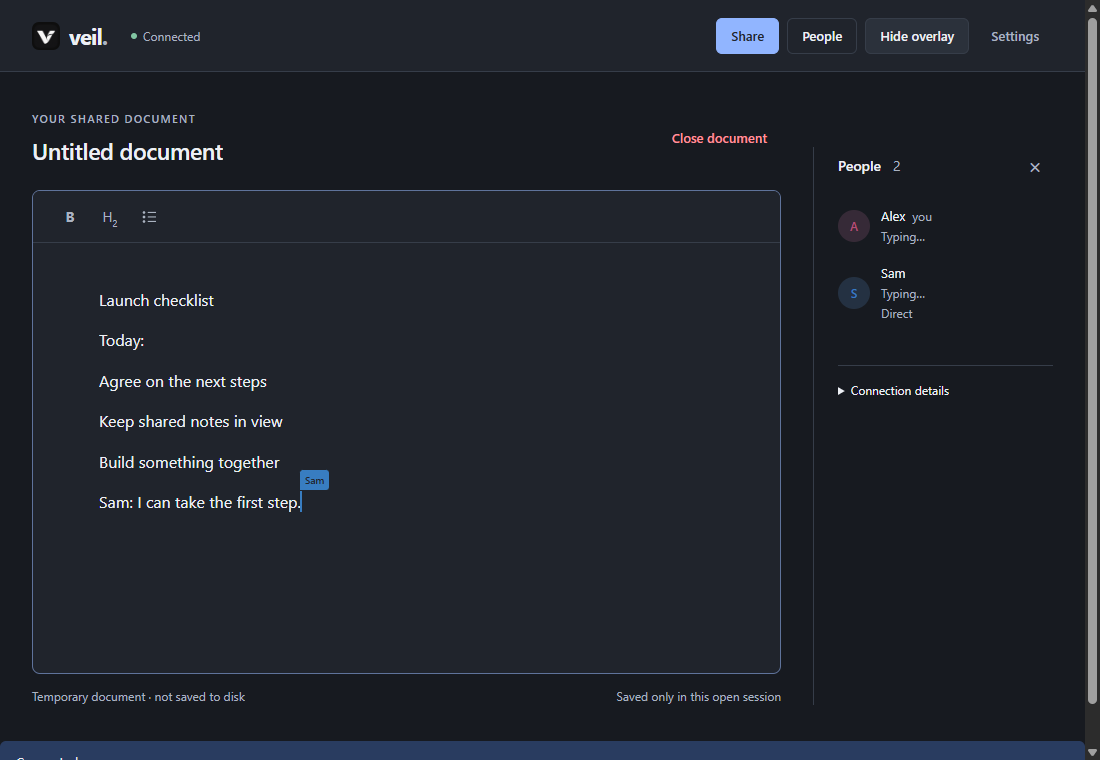
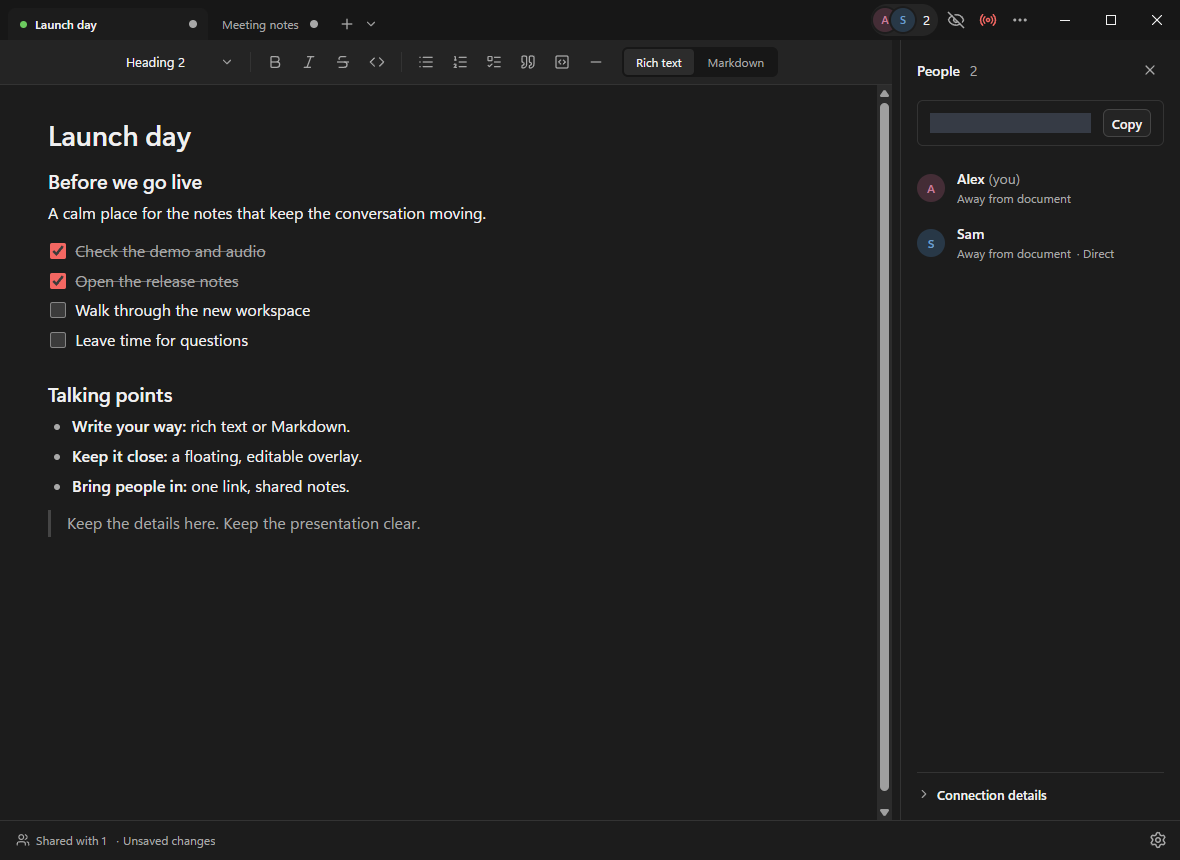
docs: simplify README and refresh app media

diff --git a/README.md b/README.md
@@ -6,127 +6,43 @@
 
 **Your notes. Your collaborators. Your overlay.**
 
-A Windows workspace for Markdown notes, live collaboration, and an overlay that stays visible to you while compatible recordings capture what's underneath.
+Collaborative Markdown notes for Windows, with an overlay that stays visible to you while compatible recordings capture what's underneath.
 
-[**Download for Windows**](https://github.com/ahmad-fatayerji/veil/releases/latest) · [Get started](#get-started) · [Share a document](#share-a-document) · [Report an issue](https://github.com/ahmad-fatayerji/veil/issues)
+[**Download for Windows**](https://github.com/ahmad-fatayerji/veil/releases/latest) · [Report an issue](https://github.com/ahmad-fatayerji/veil/issues) · [Self-hosting](https://github.com/ahmad-fatayerji/veil-server)
 
 [![Latest release](https://img.shields.io/github/v/release/ahmad-fatayerji/veil)](https://github.com/ahmad-fatayerji/veil/releases/latest) [![MIT license](https://img.shields.io/github/license/ahmad-fatayerji/veil)](LICENSE) [![Windows 10 / 11](https://img.shields.io/badge/Windows-10%20%2F%2011-0078D4)](https://github.com/ahmad-fatayerji/veil/releases/latest)
 
+<img src="docs/media/workspace.png" alt="Veil's tabbed workspace with a shared checklist and two collaborators" width="1000" />
+
 </div>
 
-Keep talking points beside a presentation, work through a checklist during a call, or write with someone in real time. Start with a local document, open your own Markdown files, and share a tab when you need another pair of hands. No account is required.
+## Features
 
-> This README describes the current `develop` source. Features may reach the Windows installer in a later release; check the [release notes](https://github.com/ahmad-fatayerji/veil/releases) for your installed version.
+- **A floating, editable overlay.** Keep notes on top, move and resize them, or let clicks pass through. Adjust font size, background opacity, and text opacity independently.
+- **Capture exclusion.** Keep the overlay out of compatible recordings and screen sharing. Results depend on the capture method; the main window remains capturable. [Compatibility details](docs/capture-compatibility.md).
+- **Rich text and Markdown.** Switch views while editing the same document, with headings, checklists, lists, quotes, and code.
+- **Live collaboration.** Share a reusable link, see cursors and participant activity, and optionally approve new guests. Connections are encrypted.
+- **Multiple documents.** Work in tabs with independent sharing sessions. Background sessions stay connected; the overlay follows your selected tab.
+- **Local files and recovery.** Open and save Markdown files, keep private local copies, and optionally restore tabs and unsaved drafts. No account required.
+- **Public or self-hosted sharing.** Use Veil's public servers for small sessions, or your own compatible server for more control.
+- **Your desktop, your preferences.** Light and dark themes, custom accent colors, tray mode, optional Windows startup, Discord activity controls, and signed app updates.
 
-## A workspace for your notes
+### Write together
 
-- **Multiple documents, independent sessions.** Create, open, and switch between tabs. Each document can have its own shared session, and background tabs stay connected. The overlay follows your selected tab.
-- **Rich text or Markdown.** Switch between formatted editing and Markdown source. Both views edit the same live document, including headings, emphasis, lists, nested checklists, quotes, code, and dividers. Your view choice stays local.
-- **Files you control.** Open and save UTF-8 `.md` files with native Windows dialogs. Each participant can save a private local copy. Veil is available through **Open with** without replacing your default Markdown editor.
-- **Live collaboration.** See named cursors, selections, and participant activity. Invite people with a short reusable link and choose automatic joining or approval for new guests.
-- **An editable desktop overlay.** Move, resize, keep it on top, or let clicks pass through to the app underneath. Adjust font size, background opacity, and text opacity independently, or link the opacity sliders. Choose a compact formatting toolbar, a selection toolbar, or shortcuts only.
-- **A setup that fits your desktop.** Choose light, dark, or system theme; follow your Windows accent color or pick your own. Rebind shortcuts, keep Veil in the tray, and optionally start it with Windows.
+Sam adds a note, Alex checks a shared task and replies, and both see the changes live.
 
-## Get started
+![Two participants editing the same document in Veil](docs/media/write-together.gif)
 
-1. [Download the latest Windows installer](https://github.com/ahmad-fatayerji/veil/releases/latest) and run the setup `.exe`. Veil supports **Windows 10 and 11, x64**; setup installs WebView2 if needed.
-2. Choose **Create document** to start writing, or **Open** (`Ctrl+O`) to work with an existing Markdown file.
-3. Choose **Show overlay** to bring the selected document onto your desktop. Customize it under **Settings → Overlay**.
-4. Save with **Ctrl+S**. For a new document, choose a filename and folder; use **Ctrl+Shift+S** to save a separate copy.
+### Switch between Markdown and rich text
 
-Local writing does not need a sharing server. Unsaved changes prompt **Save / Discard / Cancel** before closing a tab or quitting. Optional **Settings → General → Reopen tabs and unsaved drafts** restores your workspace and crash drafts locally; it is off by default and does not replace saving your files.
+Write next steps in Markdown, then check them off in the formatted view.
 
-See [document files, tabs, and recovery](docs/document-files.md) for details.
+![Editing Markdown and switching to rich text in Veil](docs/media/markdown-editing.gif)
 
-## Keep the overlay out of compatible captures
+### Keep your notes close
 
-The overlay can remain on your screen while compatible recording and screen-sharing methods capture the content beneath it. **Exclude overlay from compatible captures** is enabled by default under **Settings → Overlay**.
+Change the overlay's font size and switch the document it follows.
 
-Capture exclusion has been verified with OBS Display Capture using DXGI and Windows Graphics Capture, and FFmpeg GDI and DXGI capture on the documented Windows test machine. Results depend on the recorder and capture mode. **Check a saved recording or the remote viewer's screen before relying on it.** The main control panel remains capturable.
+<img src="docs/media/live-overlay.gif" alt="Veil's overlay responding to font-size changes and document switches" width="680" />
 
-Use the built-in capture test and see [capture compatibility and recorded results](docs/capture-compatibility.md). Exclusion is a display feature, not encryption or access control.
-
-| Default shortcut              | Action                                                |
-| ----------------------------- | ----------------------------------------------------- |
-| `Ctrl+Alt+V`                  | Restore interaction and bring back the control panel. |
-| `Ctrl+Alt+Shift+V`            | Hide or show the overlay.                             |
-| `Ctrl+N`                      | Create a document tab.                                |
-| `Ctrl+J`                      | Join with a session link.                             |
-| `Ctrl+Tab` / `Ctrl+Shift+Tab` | Switch document tabs.                                 |
-| `Ctrl+W`                      | Close the selected tab.                               |
-
-Change assignments in **Settings → Keybinds**. Click-through requires a registered recovery shortcut; tray controls also let you recover the overlay. Closing the main window moves Veil to the tray by default and keeps your documents and sessions running. Choose **Quit Veil** from the tray to exit, or change the close behavior in Settings.
-
-## Share a document
-
-1. Open a document and choose **Share**. On first use, Veil opens **Settings → Sharing → Hosting server** so you can confirm your server choice.
-2. Use **Veil's public servers**, or configure your own compatible server. Save the configuration to continue sharing the same document.
-3. Choose **Copy link** and send it to your guests. They install Veil, open the link or paste it into **Join session**, enter a name, and join. Guests do not need to configure a server.
-4. Keep the host app and shared tab open. The People panel shows participants and, when approval is required, incoming join requests.
-
-**Auto join** is the default. Choose **Require approval** to review guests before they receive document access. Everyone admitted can read and edit; display names do not verify identity.
-
-### Public servers or your own
-
-Veil offers public hosting without a host credential. These are shared resources: the public tier allows **up to five guests per document**, limits sessions per connection and relay usage, and has no availability guarantee. If capacity is reached, Veil offers **Try again** or **Configure your own server**; your local document remains available.
-
-For larger sessions or control over hosting, deploy [veil-server](https://github.com/ahmad-fatayerji/veil-server) or use another operator's compatible server. Enter its HTTPS address and, when required, an operator-issued host credential under **Settings → Sharing → Hosting server**. **Test connection** checks the configuration before you save it. Saved host credentials stay in Windows Credential Manager.
-
-Veil itself has no application-level participant cap; a server's policy, device resources, and network capacity determine practical limits. Connections use a direct WebRTC path when available, with TURN relay fallback when needed. See [networking and server setup](docs/automatic-networking.md).
-
-### Manage access
-
-Treat invitation links as secrets. **Reset link** replaces the invitation, and **Stop sharing** blocks new joins; both cancel pending requests. Already admitted guests retain access until the session ends. Close the hosted shared tab or quit Veil to disconnect everyone. There is no host migration, and restoring a saved document does not reconnect its old session.
-
-## Privacy and preferences
-
-- **Encrypted collaboration.** Document traffic uses WebRTC DTLS, with authenticated host identity and separate encryption keys for each guest's signaling. Sharing servers do not receive document contents or the invitation root secret; operators can observe connection metadata and affect service availability.
-- **Local storage.** Markdown files are saved where you choose. Optional tab and draft recovery stores snapshots on this device. Files and recovery drafts are not encrypted by Veil, and authorized participants can save, copy, or record shared content.
-- **Discord activity.** Discord Rich Presence is enabled by default. When Discord is running and allows activity sharing, Veil shares the selected document's title and participant count. Under **Settings → Sharing → Discord**, hide either detail or disable the integration. Activity continues while Veil is in the tray.
-- **Startup and updates.** Starting with Windows is optional and off by default; enabling it launches Veil quietly in the tray. Veil checks for updates in the background, while downloading and installing remain explicit. Choose stable or beta under Updates; package signatures are verified before installation.
-
-Veil has not undergone an independent security audit. Updater signatures are separate from Windows publisher certificates: the installer currently lacks an Authenticode signature, so SmartScreen may show a warning. Read the [security model](docs/security.md), or [report a vulnerability privately](https://github.com/ahmad-fatayerji/veil/security/advisories/new).
-
-## Build and contribute
-
-The app is built with **Tauri, Rust, React, TypeScript, Tiptap, and Yjs**. This repository contains the desktop app, shared packages, development tools, and release automation. The production sharing server lives in [veil-server](https://github.com/ahmad-fatayerji/veil-server).
-
-For Windows development, install Node.js **22.12+**, pnpm **10.30.1**, Rust, the Visual Studio C++ build tools, and WebView2:
-
-```powershell
-git clone --branch develop https://github.com/ahmad-fatayerji/veil.git
-cd veil
-pnpm install --frozen-lockfile
-pnpm dev:desktop
-```
-
-| Path                        | Purpose                                                               |
-| --------------------------- | --------------------------------------------------------------------- |
-| `apps/desktop`              | Windows app, native integration, workspace, and overlay.              |
-| `packages/editor`           | Shared rich text and Markdown editing.                                |
-| `packages/collaboration`    | Document synchronization, peer connections, and session coordination. |
-| `packages/protocol`         | Shared protocol types and compatibility declarations.                 |
-| `packages/ui`               | Shared interface components and styling.                              |
-| `apps/web`, `packages/host` | Retained browser and local development/test tools.                    |
-
-Read [AGENTS.md](AGENTS.md) before contributing. Ordinary work starts from `develop` and is reviewed through PRs; `main` holds approved release source. The standalone development host listens on loopback and must not be exposed as a public service.
-
-[Project specification](PROJECT_SPEC.md) · [Architecture](docs/architecture.md) · [Overlay](docs/overlay.md) · [Testing](docs/testing.md) · [Releases](docs/releasing.md)
-
-Found a bug or have an idea? [Open an issue](https://github.com/ahmad-fatayerji/veil/issues) with your Veil version and steps to reproduce it.
-
-## Star history
-
-<a href="https://www.star-history.com/?repos=ahmad-fatayerji%2Fveil&type=date&legend=top-left">
-  <picture>
-    <source media="(prefers-color-scheme: dark)" srcset="https://api.star-history.com/svg?repos=ahmad-fatayerji/veil&amp;type=Date&amp;theme=dark" />
-    <source media="(prefers-color-scheme: light)" srcset="https://api.star-history.com/svg?repos=ahmad-fatayerji/veil&amp;type=Date" />
-    <img src="https://api.star-history.com/svg?repos=ahmad-fatayerji/veil&amp;type=Date" alt="Veil's GitHub star history over time" width="800" />
-  </picture>
-</a>
-
-## License
-
-[MIT](LICENSE) © Ahmad Fatayerji. Free to use, modify, and distribute, including commercially, with the copyright and license notice retained.
-
-Made by [Ahmad Fatayerji](https://ahmadfatayerji.com).
+[MIT](LICENSE) · Made by [Ahmad Fatayerji](https://ahmadfatayerji.com).

diff --git a/docs/media/README.md b/docs/media/README.md
@@ -1,33 +1,51 @@
-# README media
+# README media
 
-These images and GIFs were captured on Windows on 11 October 2026 from real
-Veil desktop WebView2 windows, using disposable demo profiles and documents.
-Alex and Sam are demo participant names. Two native instances joined the same
-session through a local, loopback-only Veil server; guest edits were verified
-in the host document before capture.
+These screenshots and GIFs were captured on Windows with WebView2 on 22 October
+2026 from the **Veil 1.0.0 candidate (`1.0.0-beta.1`)**, release source
+`cda58af6624883d3e5a2b42b51719310d03ed374` (`release/1.0.0`). This is candidate
+media, not a claim that final 1.0.0 has been published.
 
-The capture used the migration acceptance debug executable. Its desktop,
-editor, and shared UI source matches public `develop` at `9e84315`; the older
-debug package version is not shown in the media. The installed user app was
-left running and its documents and preferences were not used.
+The native debug executable was built from an archive of that exact commit in
+this task's ignored capture directory. Its frontend was served from the same
+archived candidate source. Both the native version and the About version label
+were checked and reported `1.0.0-beta.1`. No app interface or participant state
+was mocked.
 
-| Asset                  | Content                                                           |
-| ---------------------- | ----------------------------------------------------------------- |
-| `welcome.png`          | Create document / Join session welcome screen, dark theme.        |
-| `workspace.png`        | Shared checklist with two connected participants.                 |
-| `write-together.gif`   | Host writing, followed by a guest edit reaching the host.         |
-| `overlay.png`          | The same document in the overlay, with participant activity.      |
-| `live-overlay.gif`     | Overlay font-size changes applied by the native settings command. |
-| `overlay-settings.png` | A focused capture of the actual overlay controls.                 |
+Alex and Sam are fictional participants using disposable profiles and demo
+Markdown documents. Two actual native instances joined through a loopback-only
+Veil server; guest edits were observed at the host, and the host's reply was
+observed at the guest. This demonstrates local collaboration, not internet or
+TURN connectivity. The installed user app, files, and preferences were not used.
+Discord activity was disabled in the disposable profiles. Demo recovery shortcuts
+use F11/F12 combinations to avoid taking the installed app's global shortcuts;
+these are not the product defaults.
 
-GIFs encode sequential app screenshots with a pause at the end; playback is
-condensed. They show the app's window contents, not a full desktop recording
-or evidence of capture exclusion, transparency, or shortcut registration.
-The installed app retains the global shortcuts, so the separate demo instance
-cannot register them. No private documents, invitations, or host credentials
-are included in the published media.
+| Asset                  | Content                                                                         |
+| ---------------------- | ------------------------------------------------------------------------------- |
+| `welcome.png`          | Current welcome screen with New document, Open document, and Join with a link.  |
+| `workspace.png`        | Dark workspace, two tabs, shared launch checklist, and People panel.            |
+| `workspace-light.png`  | Shared launch notes in the light theme.                                         |
+| `markdown.png`         | Meeting notes in the Markdown source editor.                                    |
+| `markdown-editing.gif` | Switching views, adding Markdown next steps, and checking an item in rich text. |
+| `write-together.gif`   | Sam's live edits, Alex checking a shared task, and Alex's reply.                |
+| `overlay.png`          | Editable Meeting notes overlay with the compact formatting toolbar.             |
+| `live-overlay.gif`     | Native font-size changes and the overlay following document tab switches.       |
+| `overlay-settings.png` | Independent opacity sliders, font size, and formatting controls.                |
+| `hosting-settings.png` | Public hosting choice and its resource limits.                                  |
 
-To refresh these assets, use an isolated native debug profile with the existing
-Windows/WebView2 acceptance harness described in [testing](../testing.md).
-Use fictional content, verify both peers receive edits, inspect every image,
-and keep the encoded GIFs small enough to load comfortably in a README.
+Screenshots capture actual app window contents. Settings images crop to the actual
+settings dialog. Live invitation text is masked with a solid gray rectangle;
+no usable links or credentials are published. The demo sessions were ended after
+capture. No document content or controls were added through image editing.
+
+GIFs encode sequential screenshots from real interactions, using a shared palette,
+a condensed timeline, and longer first/last frames. They show UI behavior, not a
+desktop recording or evidence of capture exclusion, desktop transparency, or
+shortcut registration. Each GIF is below 350 KiB. The PNGs and representative
+decoded GIF frames were visually inspected before publication.
+
+To refresh, use candidate/release source and isolated debug profiles following
+the Windows/WebView2 harness in [testing](../testing.md). Check the native and UI
+version labels, use fictional content, verify edits reach both peers, mask every
+invitation, and inspect the resulting images and GIF frames. Do not use the
+installed app's documents, credentials, or preferences.
